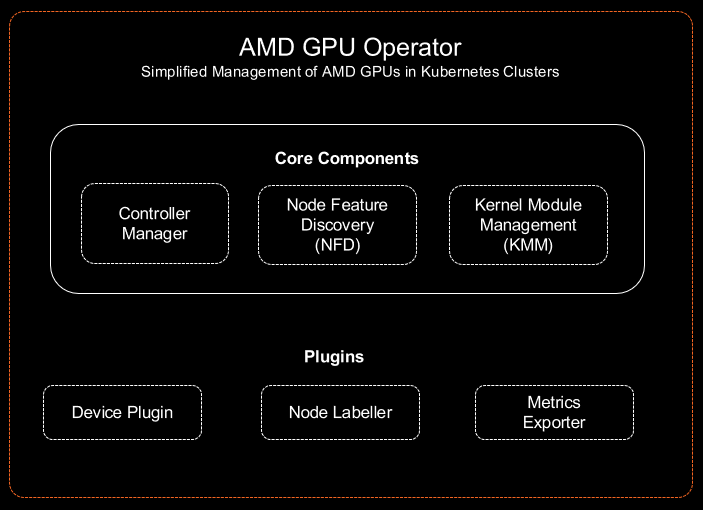
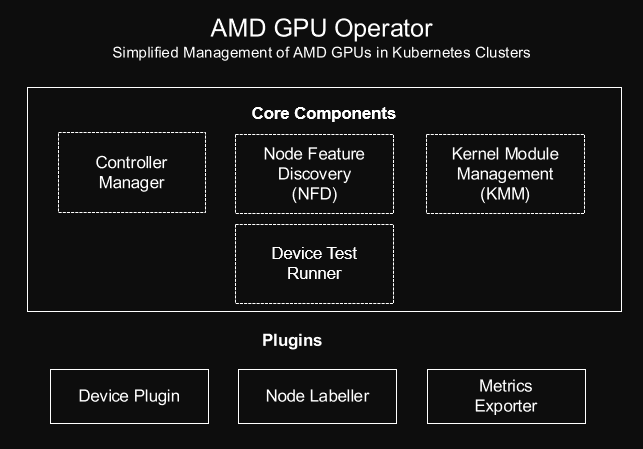
Updated GPU Operator Diagram in docs and Openshift Helm deprecation message

diff --git a/docs/installation/openshift-helm.md b/docs/installation/openshift-helm.md
@@ -1,7 +1,7 @@
 # OpenShift (Helm)
 
 ```{warning}
-Installing via Helm is not a recommended method for Red Hat OpenShift. Users wishing to use the AMD GPU with OpenShift should consider using the OLM method instead.
+Installing via Helm is not a recommended method for Red Hat OpenShift. Users wishing to use the AMD GPU with OpenShift should consider using the OLM method instead. This method is not supported in the latest version. As a result, this page will be removed in the next release.
 ```
 
 This guide walks through installing the AMD GPU Operator on an OpenShift cluster using Helm.
